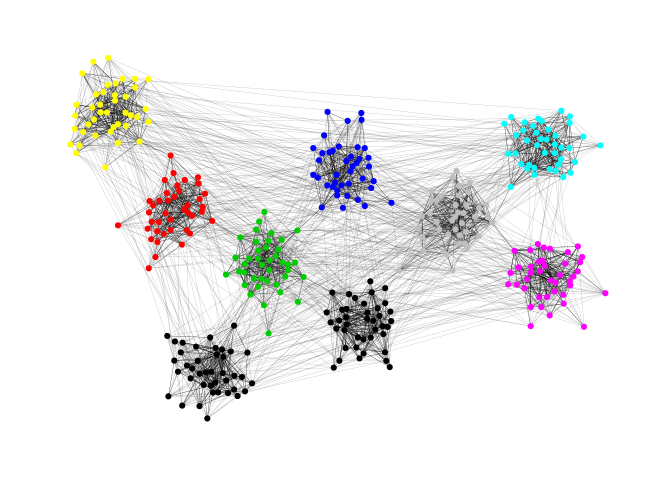
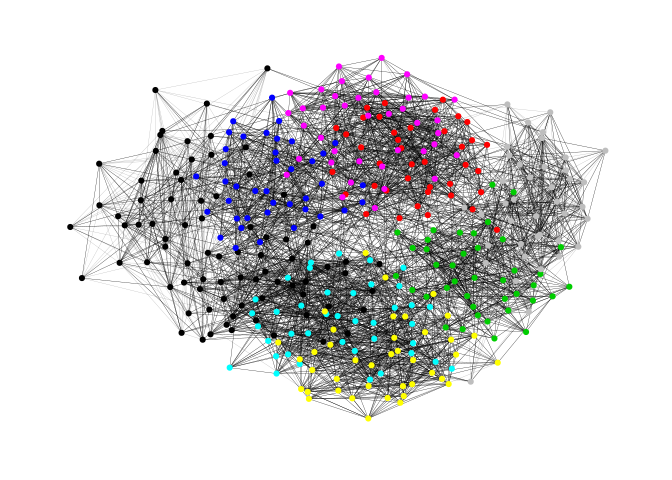
added layout manipulation

diff --git a/README.md b/README.md
@@ -46,7 +46,7 @@ ggraph(pa)+
 ``` r
 
 
-l <- stress_majorization(pa)
+l <- layout_with_stress(pa)
 ggraph(pa,layout="manual",node.positions=data.frame(x=l[,1],y=l[,2]))+
   geom_edge_link(width=0.2,colour="grey")+
   geom_node_point(col="black",size=0.3)+
@@ -54,6 +54,14 @@ ggraph(pa,layout="manual",node.positions=data.frame(x=l[,1],y=l[,2]))+
 ```
 
 <img src="figures/README-example-2.png" width="80%" style="display: block; margin: auto;" />
+
+Layout manipulation
+-------------------
+
+The functions `layout_mirror()` and `layout_rotate()` can be used to
+manipulate an existing layout
+
+<img src="figures/layout_manipulation.png" width="80%" style="display: block; margin: auto;" />
 
 Stress Majorization: Unconnected Network
 ----------------------------------------
@@ -84,7 +92,7 @@ ggraph(g) +
 
 ``` r
 
-l <- stress_majorization(g,bbox=30)
+l <- layout_with_stress(g,bbox=30)
 ggraph(g, layout="manual", node.positions=data.frame(x=l[,1],y=l[,2])) +
   geom_edge_link() +
   geom_node_point() +
@@ -103,7 +111,7 @@ set.seed(665)
 g <- sample_islands(9,40,0.4,15)
 g <- simplify(g)
 
-xy <- stress_majorization(g)
+xy <- layout_with_stress(g)
 ggraph(g,layout="manual",node.positions=data.frame(x=xy[,1],y=xy[,2]))+
   geom_edge_link(colour=rgb(0,0,0,0.5),width=0.1)+
   geom_node_point(col=rep(1:9,each=40))+

diff --git a/NEWS.md b/NEWS.md
@@ -1,10 +1,15 @@
+# smglr 0.0.2.9000
+
+* added functions to rotate/mirror layouts
+* `stress_majorization()` is no depricated. Use `layout_with_stress()` instead
+
 # smglr 0.0.1.9000
 
-* Added support for unconnected networks via external library
+* added support for unconnected networks via external library
 
 # smglr 0.0.0.9000
 
-* Added a `NEWS.md` file to track changes to the package.
+* added a `NEWS.md` file to track changes to the package.
 * basic implementation
 
 
